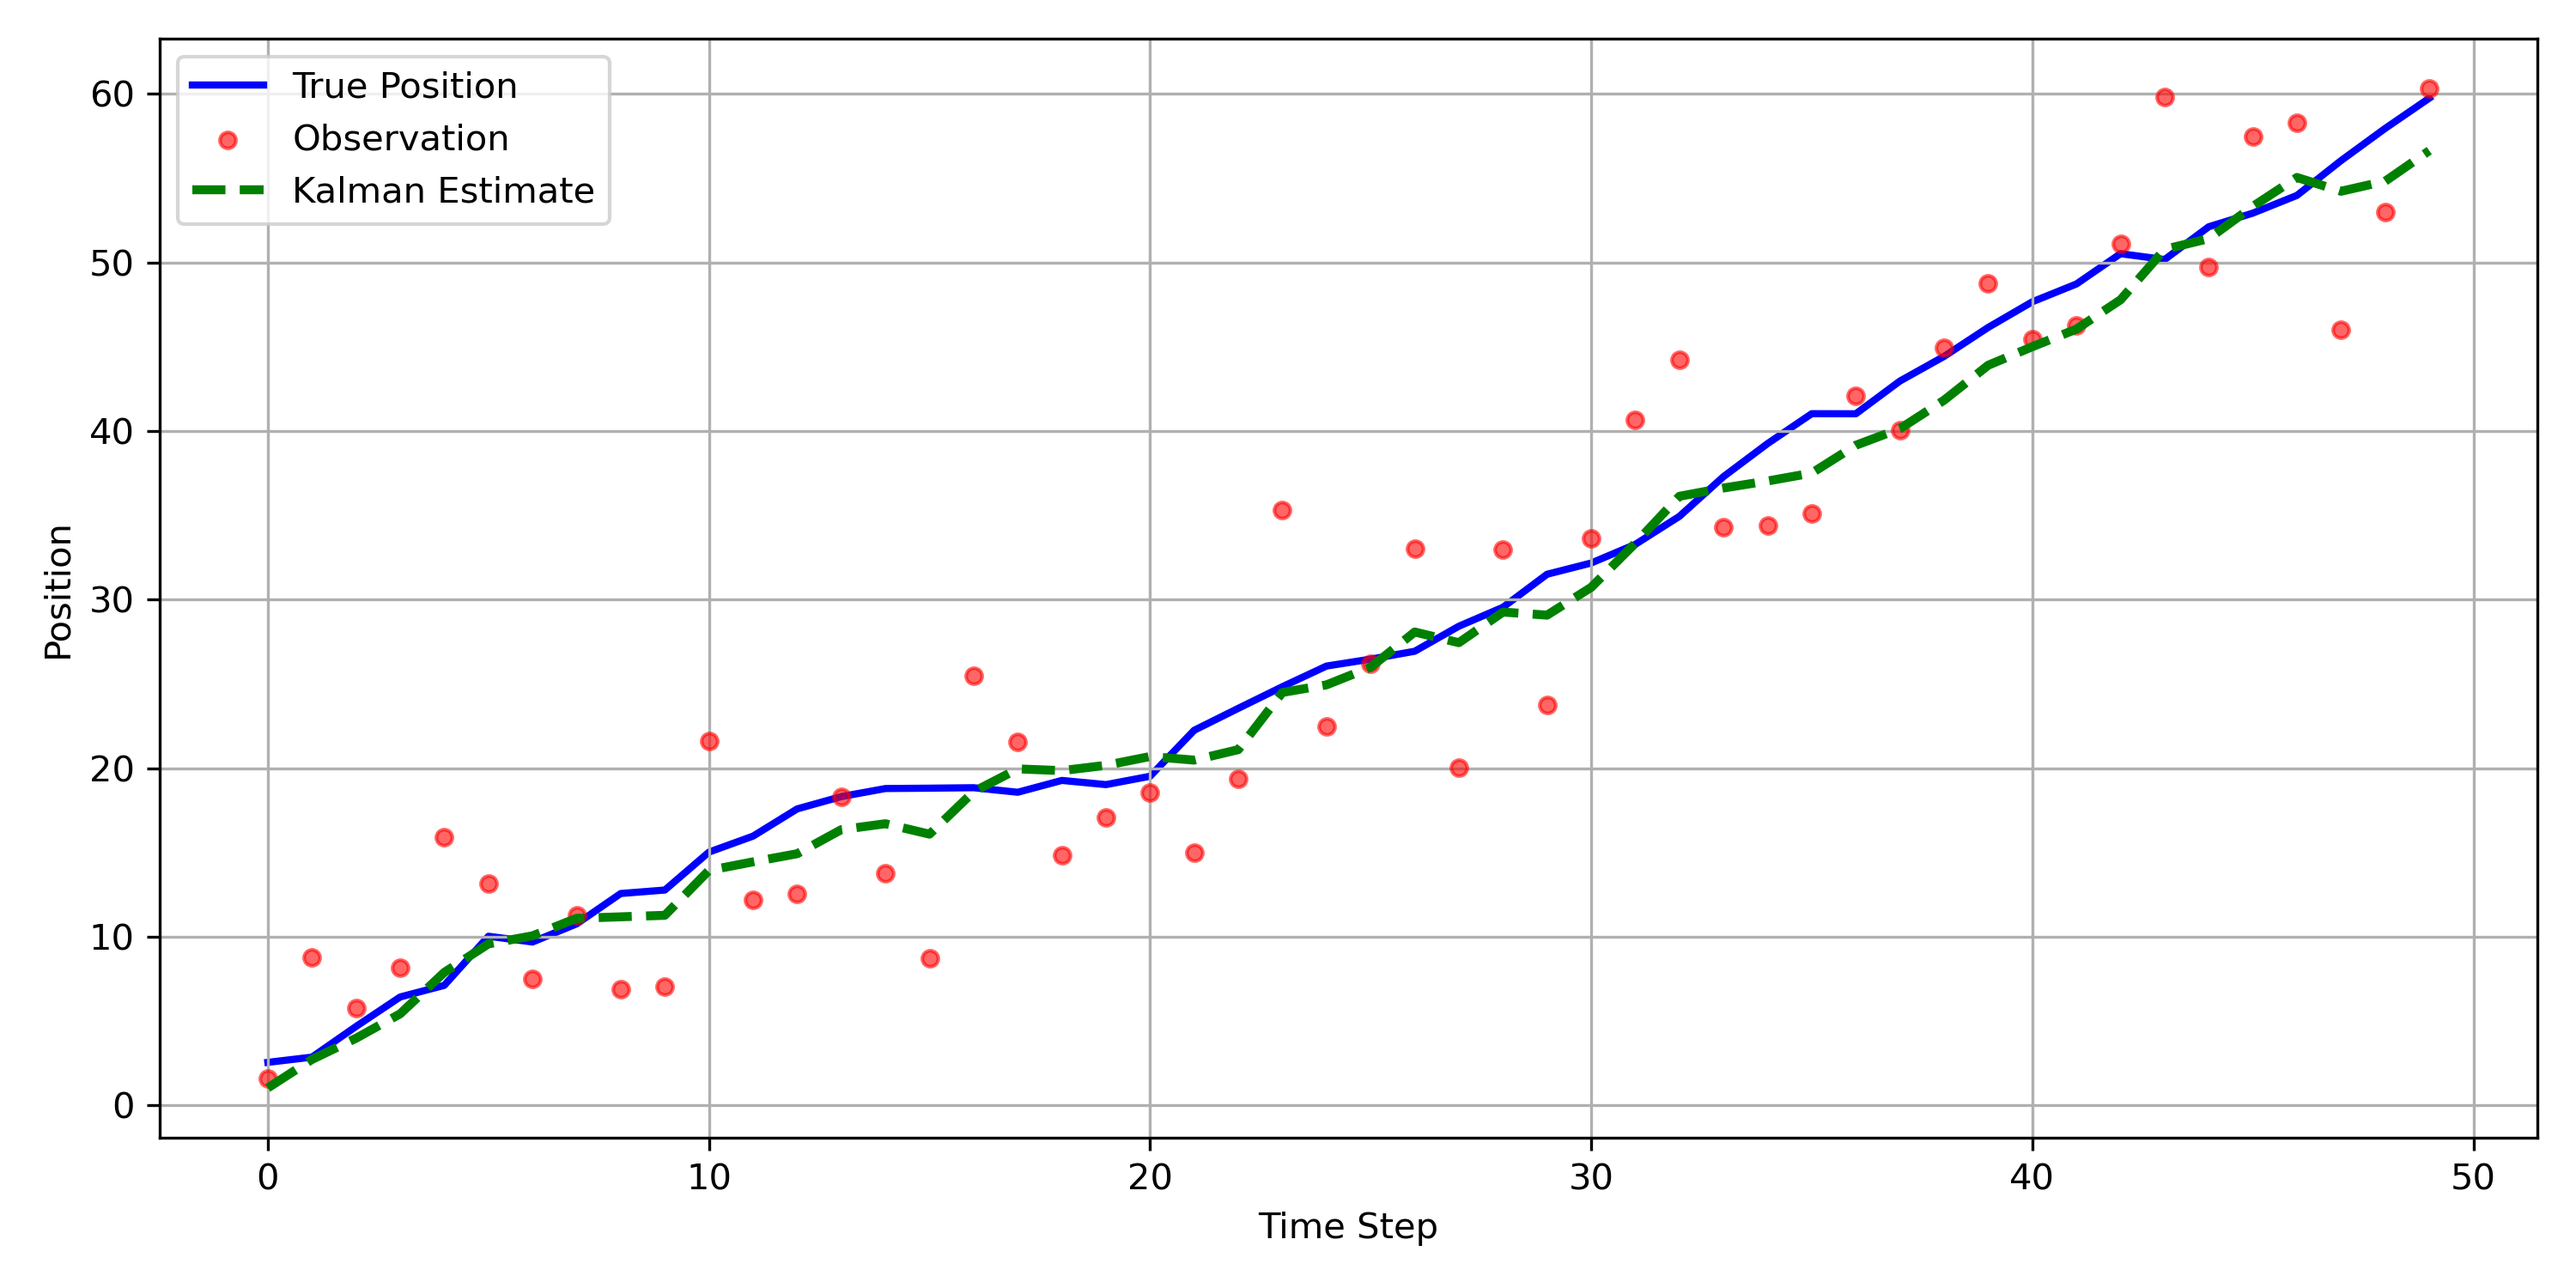
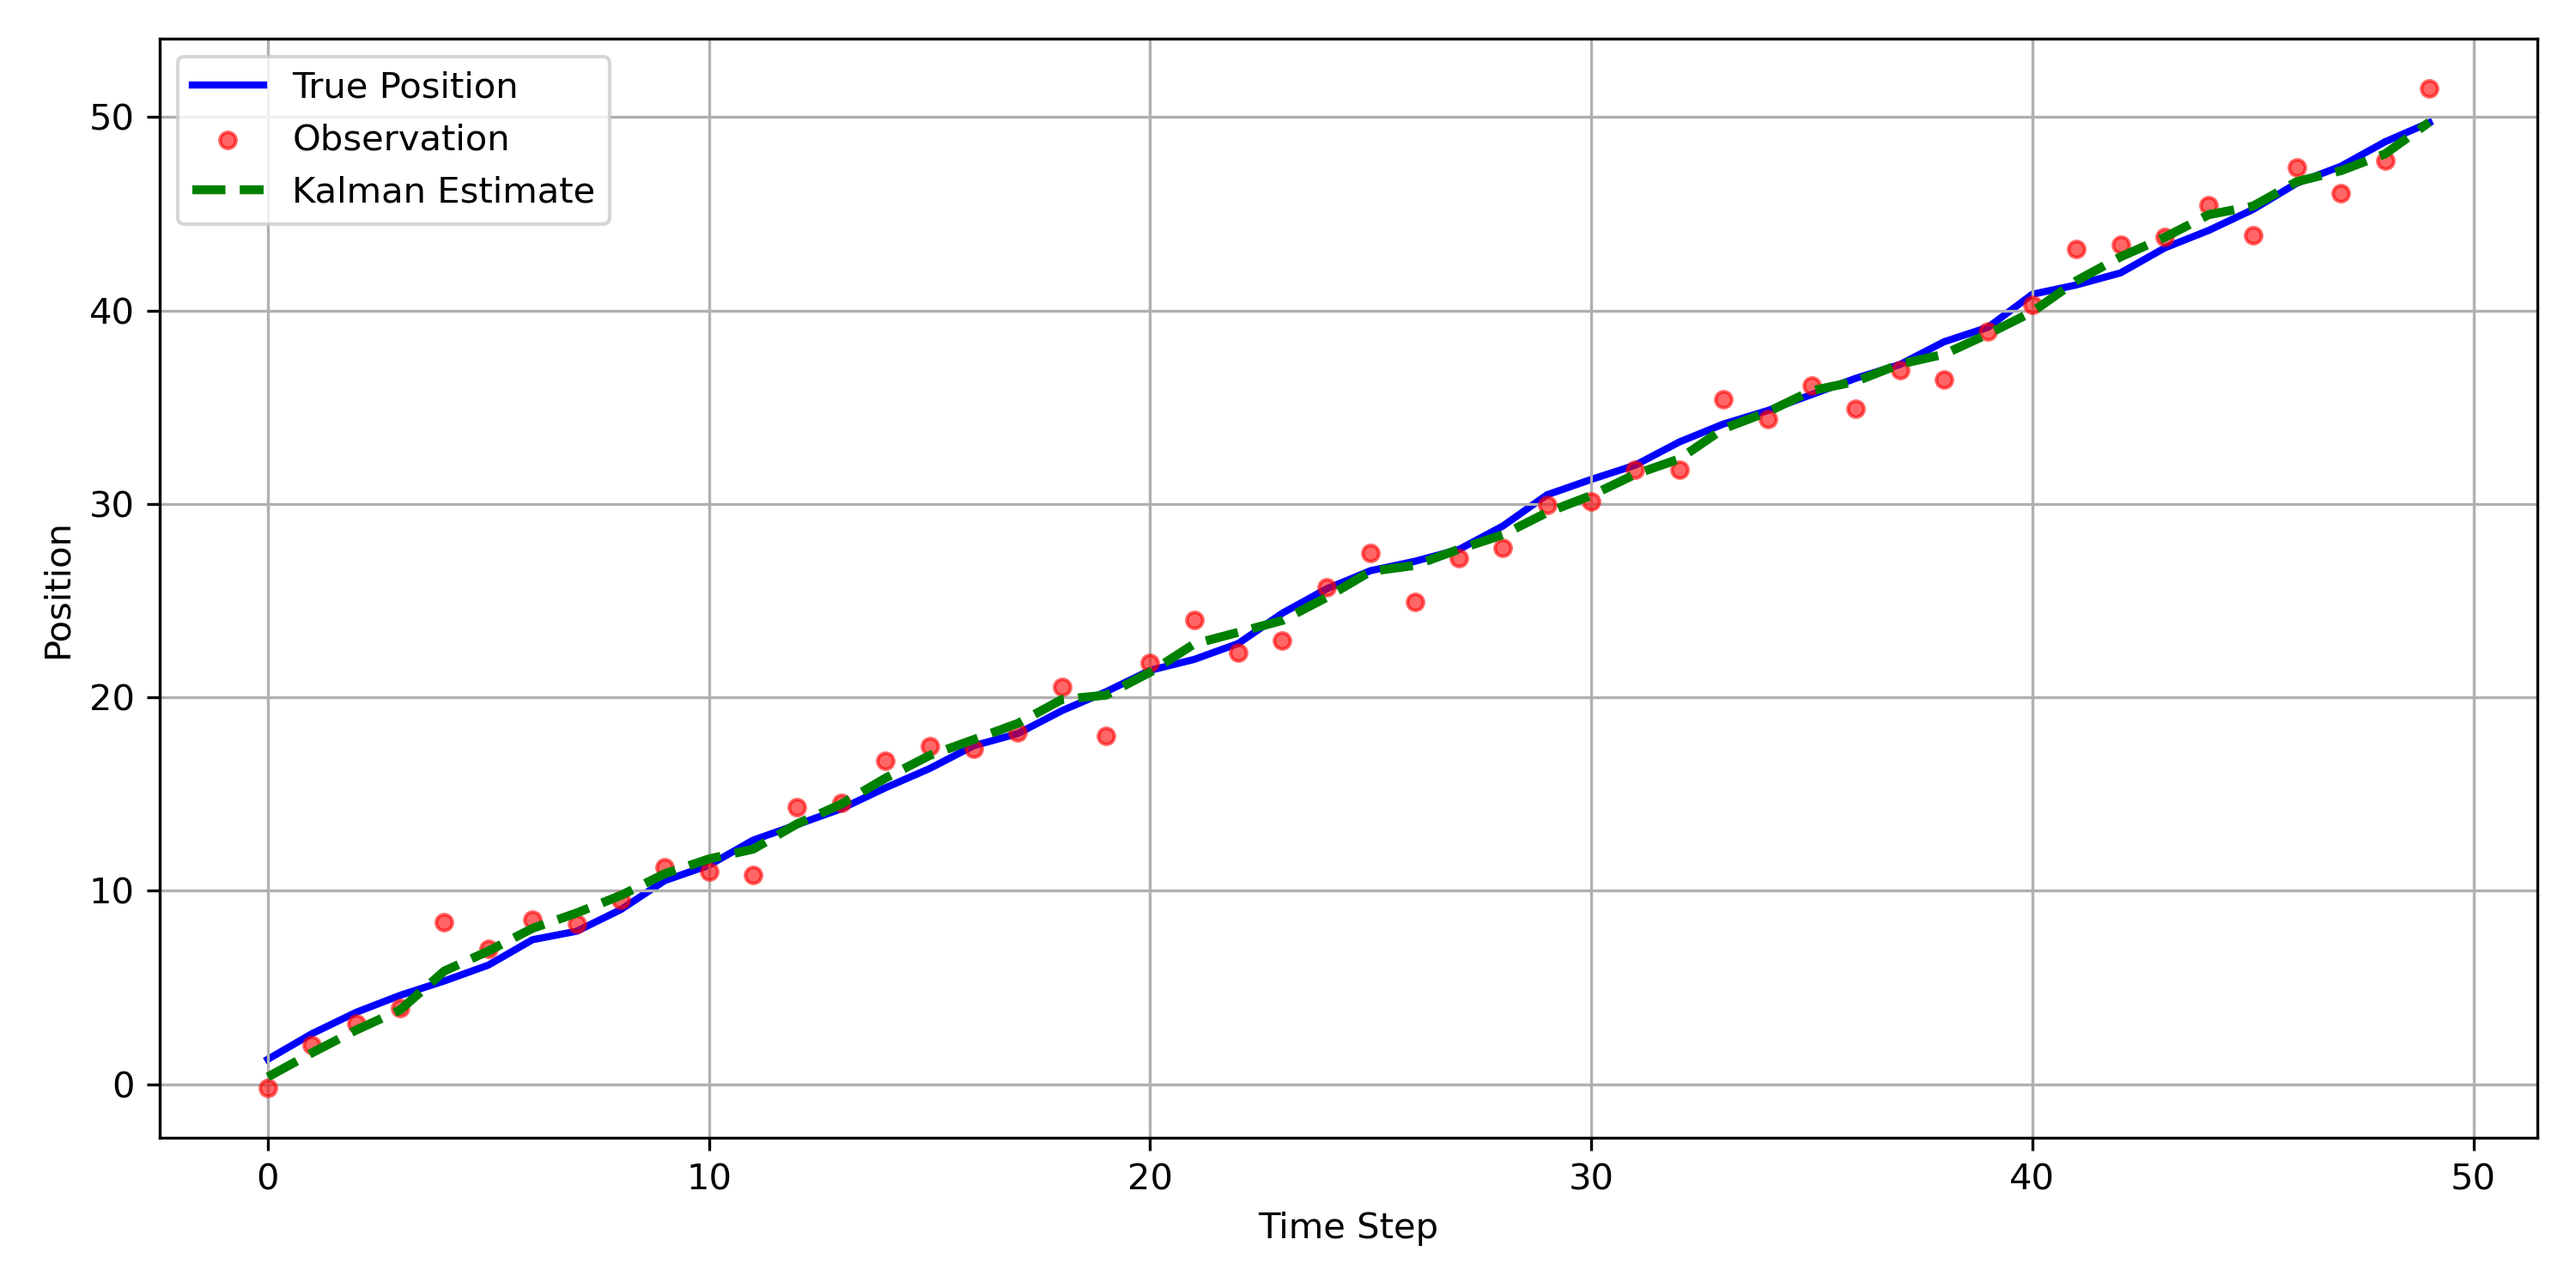
プログラム変更

diff --git a/robot.py b/robot.py
@@ -8,7 +8,7 @@ import numpy as np
 class Robot:                                                            #1次元のロボットを表すクラス，状態は位置のみ
     def __init__(self, initial_position, steps_move, process_noise):
         self.position = initial_position                                #initial_position:初期位置
-        self.steps_move = steps_move                                    #steps_move:1ステップ当たりの移動量
+        self.steps_move = steps_move                                    #steps_move:1ステップ当たりの移動量v
         self.process_noise = process_noise                              #process_noise:プロセスノイズ分散Q
 
     def move(self):                                                     #1ステップ進んだ後の位置

diff --git a/main.py b/main.py
@@ -9,8 +9,8 @@ def main():
     true_positions, observations, estimates = run_simulation(
         steps=50,                                               #ステップ数
         steps_move=1.0,                                         #1ステップ移動量
-        process_noise=1.0,                                      #プロセスノイズ分散
-        observation_noise=25.0                                  #観測ノイズ分散
+        process_noise=0.10,                                      #プロセスノイズ分散
+        observation_noise=1.0                                   #観測ノイズ分散
     )
 
     plot_results(true_positions, observations, estimates)

diff --git a/kalman_filter.py b/kalman_filter.py
@@ -12,7 +12,7 @@ class KalmanFilter:
         initial_variance,                   #初期分散 P0
         process_noise,                      #プロセスノイズ分散 Q
         observation_noise,                  #観測ノイズ分散 R
-        steps_move                          #1ステップ当たりの移動量
+        steps_move                          #1ステップ当たりの移動量v
         ):
 
         self.x = initial_estimate           #状態推定位置^xk

diff --git a/README.md b/README.md
@@ -93,7 +93,7 @@ K_k = \frac{P_{k|k-1}}{P_{k|k-1}+R}
 ```
 ```math
 \begin{align}
-\hat{x} = \hat{x}_{k|k-1} + K_k(z_k - {x|k-1})
+\hat{x} = \hat{x}_{k|k-1} + K_k(z_k - \hat{x}_{x|k-1})
 \end{align}
 ```
 ```math
@@ -111,11 +111,20 @@ P_k = (1 - K_k)P_{k|k-1}
 	* 時系列で可視化を行う．
 
 ### シミュレーション結果
-* プロセスノイズと観測ノイズの数値を変えて実験を行った．
+* プロセスノイズQと観測ノイズRの数値を変えて実験を行った．
+* Q = 1.0, R = 1.0の結果を下に示す．
 ![result1](image/result.png)
-* 
-
-
+* このグラフはそれぞれ以下のことを表している．
+	* True Position(青い線): ノイズを含むロボットの位置
+	* Observation(赤い点): 観測ノイズを含んだ観測値
+	* Kalman Estimate(緑の破線): カルマンフィルタによる推定位置
+* Q = 1.0, R = 1.0の結果を下に示す．
+![result2](image/result.png)
+* ノイズの大きい観測値よりもカルマンフィルタがロボット位置を追従していることがわかる．
+* 観測値はノイズの影響を受けており、そのままでは信頼できないが、
+* カルマンフィルタによりノイズが低減され、
+* 真の状態に近い推定が得られている。
+* カルマンフィルタが「ノイズ除去器」として機能していることが確認できる
 ## 使用ライブラリ
 * Python3
 	* テスト済み: 3.9~3.11
